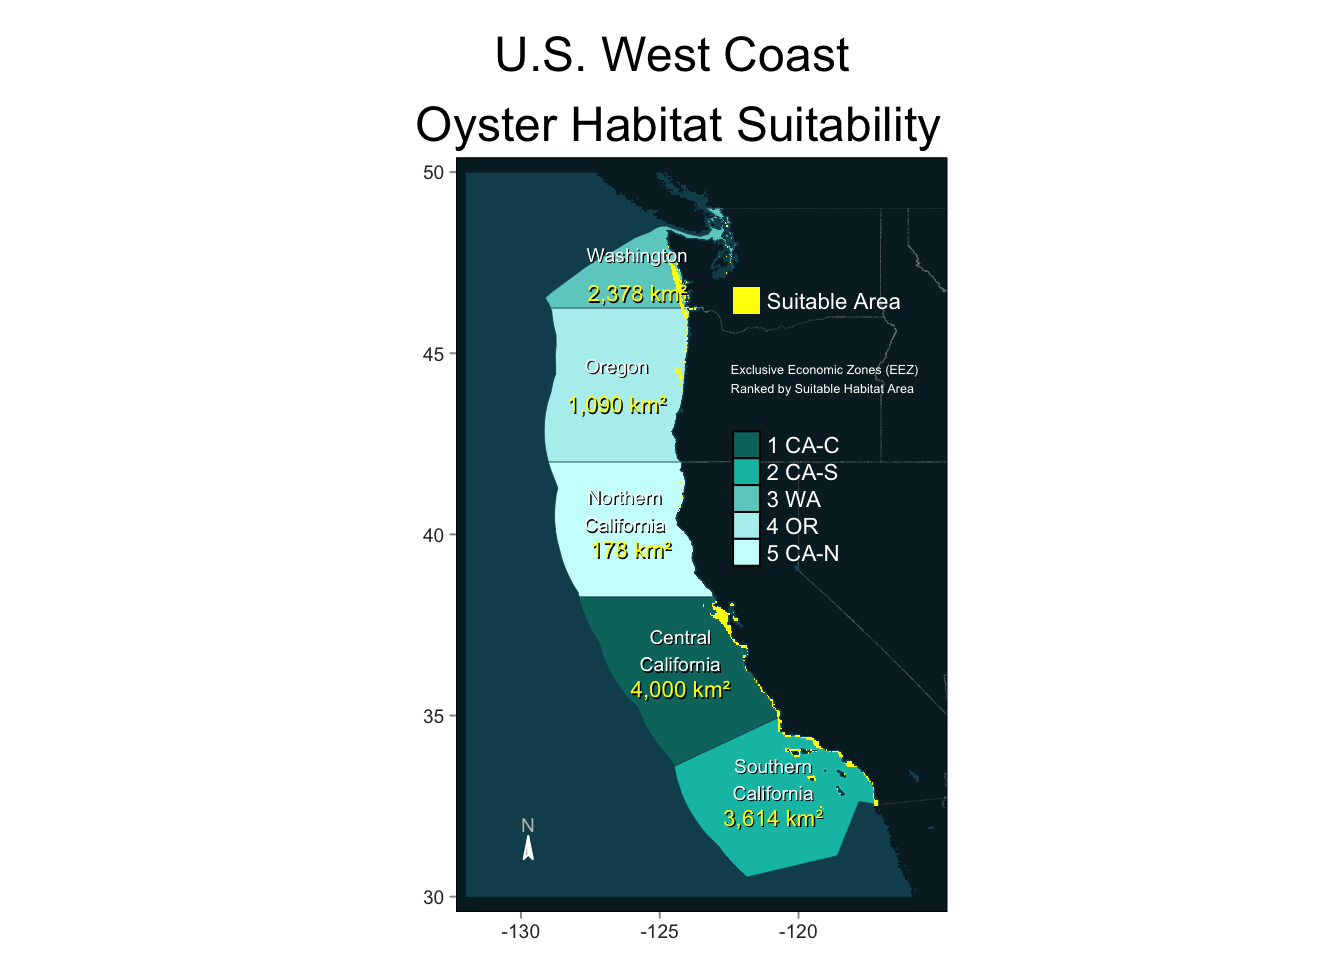
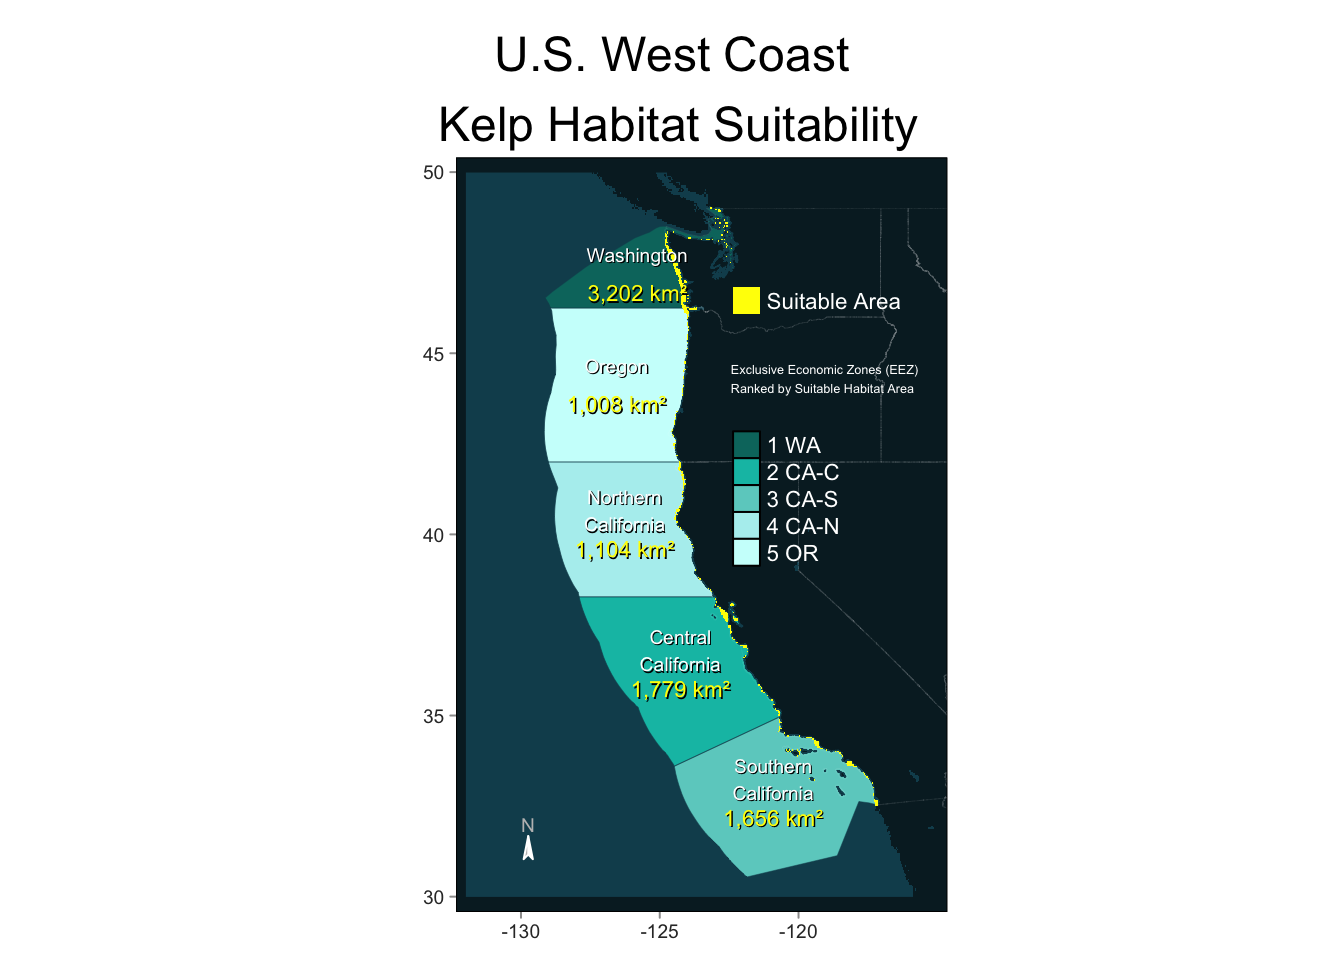
add cover photo

Changed region(s): [[0.4062, 0.2188, 0.6562, 0.9062], [0.3125, 0.0938, 0.7188, 0.1562], [0.5625, 0.4375, 0.625, 0.5938]]

diff --git a/aquaculture-habitat-suitability.html b/aquaculture-habitat-suitability.html
@@ -81,7 +81,12 @@ pre > code.sourceCode > span > a:first-child::before { text-decoration: underlin
     <h2 id="toc-title">Table of contents</h2>
    
   <ul>
-  <li><a href="#generalize-workflow-for-habitat-suitability" id="toc-generalize-workflow-for-habitat-suitability" class="nav-link active" data-scroll-target="#generalize-workflow-for-habitat-suitability">4. Generalize Workflow for Habitat Suitability</a></li>
+  <li><a href="#set-up-workspace" id="toc-set-up-workspace" class="nav-link active" data-scroll-target="#set-up-workspace">1. Set up Workspace</a></li>
+  <li><a href="#prepare-data" id="toc-prepare-data" class="nav-link" data-scroll-target="#prepare-data">2. Prepare Data</a></li>
+  <li><a href="#calculate-oyster-habitat-suitability-by-eez-zone" id="toc-calculate-oyster-habitat-suitability-by-eez-zone" class="nav-link" data-scroll-target="#calculate-oyster-habitat-suitability-by-eez-zone">3. Calculate Oyster Habitat Suitability by EEZ Zone</a></li>
+  <li><a href="#generalize-workflow-for-habitat-suitability" id="toc-generalize-workflow-for-habitat-suitability" class="nav-link" data-scroll-target="#generalize-workflow-for-habitat-suitability">4. Generalize Workflow for Habitat Suitability</a></li>
+  <li><a href="#use-function-with-test-species" id="toc-use-function-with-test-species" class="nav-link" data-scroll-target="#use-function-with-test-species">5. Use function with Test Species</a></li>
+  <li><a href="#resources" id="toc-resources" class="nav-link" data-scroll-target="#resources">6. Resources:</a></li>
   </ul>
 </nav>
 </div>
@@ -119,8 +124,8 @@ pre > code.sourceCode > span > a:first-child::before { text-decoration: underlin
 </header>
 
 
-<section id="set-up-workspace" class="level4">
-<h4 class="anchored" data-anchor-id="set-up-workspace">1. Set up Workspace</h4>
+<section id="set-up-workspace" class="level3">
+<h3 class="anchored" data-anchor-id="set-up-workspace">1. Set up Workspace</h3>
 <div class="cell">
 <details class="code-fold">
 <summary>Load Libraries</summary>
@@ -175,8 +180,8 @@ pre > code.sourceCode > span > a:first-child::before { text-decoration: underlin
 </details>
 </div>
 </section>
-<section id="prepare-data" class="level4">
-<h4 class="anchored" data-anchor-id="prepare-data">2. Prepare Data</h4>
+<section id="prepare-data" class="level3">
+<h3 class="anchored" data-anchor-id="prepare-data">2. Prepare Data</h3>
 <div class="cell">
 <details class="code-fold">
 <summary>Prepare SST Data</summary>
@@ -228,8 +233,8 @@ pre > code.sourceCode > span > a:first-child::before { text-decoration: underlin
 </details>
 </div>
 </section>
-<section id="calculate-oyster-habitat-suitability-by-eez-zone" class="level4">
-<h4 class="anchored" data-anchor-id="calculate-oyster-habitat-suitability-by-eez-zone">3. Calculate Oyster Habitat Suitability by EEZ Zone</h4>
+<section id="calculate-oyster-habitat-suitability-by-eez-zone" class="level3">
+<h3 class="anchored" data-anchor-id="calculate-oyster-habitat-suitability-by-eez-zone">3. Calculate Oyster Habitat Suitability by EEZ Zone</h3>
 <div class="cell">
 <details class="code-fold">
 <summary>Reclassify SST &amp; Depth Values for Suitable Habitat</summary>
@@ -328,6 +333,33 @@ pre > code.sourceCode > span > a:first-child::before { text-decoration: underlin
 <span id="cb9-2"><a href="#cb9-2" aria-hidden="true" tabindex="-1"></a><span class="fu">par</span>(<span class="at">mfrow =</span> <span class="fu">c</span>(<span class="dv">1</span>, <span class="dv">1</span>))</span></code><button title="Copy to Clipboard" class="code-copy-button"><i class="bi"></i></button></pre></div>
 </details>
 </div>
+<table class="caption-top table">
+<colgroup>
+<col style="width: 19%">
+<col style="width: 19%">
+<col style="width: 20%">
+<col style="width: 19%">
+<col style="width: 19%">
+</colgroup>
+<thead>
+<tr class="header">
+<th>Species</th>
+<th>Min Temp</th>
+<th>Max Depth</th>
+<th>Min Depth</th>
+<th>Max Depth</th>
+</tr>
+</thead>
+<tbody>
+<tr class="odd">
+<td>Oyster</td>
+<td>10</td>
+<td>20</td>
+<td>- 40</td>
+<td>0</td>
+</tr>
+</tbody>
+</table>
 <div class="cell">
 <details class="code-fold">
 <summary>Map Oyster Habitat Suitability by EEZ Zone</summary>
@@ -411,16 +443,24 @@ pre > code.sourceCode > span > a:first-child::before { text-decoration: underlin
 <span id="cb10-78"><a href="#cb10-78" aria-hidden="true" tabindex="-1"></a>              <span class="at">legend.position =</span> <span class="fu">c</span>(<span class="fl">0.55</span>,<span class="fl">0.45</span>),</span>
 <span id="cb10-79"><a href="#cb10-79" aria-hidden="true" tabindex="-1"></a>              <span class="at">legend.title.color =</span> <span class="st">"white"</span>,</span>
 <span id="cb10-80"><a href="#cb10-80" aria-hidden="true" tabindex="-1"></a>              <span class="at">legend.title.size =</span> <span class="fl">1.2</span>,</span>
-<span id="cb10-81"><a href="#cb10-81" aria-hidden="true" tabindex="-1"></a>              <span class="at">bg.color =</span> <span class="st">'#07222B'</span>)</span></code><button title="Copy to Clipboard" class="code-copy-button"><i class="bi"></i></button></pre></div>
+<span id="cb10-81"><a href="#cb10-81" aria-hidden="true" tabindex="-1"></a>              <span class="at">bg.color =</span> <span class="st">'#07222B'</span>)</span>
+<span id="cb10-82"><a href="#cb10-82" aria-hidden="true" tabindex="-1"></a></span>
+<span id="cb10-83"><a href="#cb10-83" aria-hidden="true" tabindex="-1"></a><span class="co"># Display Map</span></span>
+<span id="cb10-84"><a href="#cb10-84" aria-hidden="true" tabindex="-1"></a> oyster_test_map </span></code><button title="Copy to Clipboard" class="code-copy-button"><i class="bi"></i></button></pre></div>
 </details>
+<div class="cell-output-display">
+<div>
+<figure class="figure">
+<p><img src="aquaculture-habitat-suitability_files/figure-html/unnamed-chunk-9-1.png" class="img-fluid figure-img" width="672"></p>
+</figure>
 </div>
+</div>
+</div>
+<p><em>This map shows habitat suitability for oyster aquaculture along the U.S. West Coast. Suitable areas, highlighted in yellow, were calculated using thresholds for sea surface temperature and depth below sea level, based on their known range according to <a href="https://www.sealifebase.ca/search.php">sealifebase.ca</a>. The threshold values for oyster can be located above on Table A. The Exclusive Economic Zones (EEZ) regions are colored by the the amount of suitable area, where dark turquoise indicates the largest amount of area and light blue is the smallest. Central California ranked 1st on the list at 4,000 km² and Northern California ranked fifth, the lowest, at 178km².</em></p>
 </section>
 <section id="generalize-workflow-for-habitat-suitability" class="level3">
 <h3 class="anchored" data-anchor-id="generalize-workflow-for-habitat-suitability">4. Generalize Workflow for Habitat Suitability</h3>
-<section id="create-a-choose-your-own-species-function" class="level4">
-<h4 class="anchored" data-anchor-id="create-a-choose-your-own-species-function">Create a ‘Choose-your-own species’ function</h4>
-<p><strong>About the function:</strong></p>
-<p>Arguments:</p>
+<p><strong>Arguments:</strong></p>
 <ul>
 <li><p><code>species</code>: a string containing the species name</p></li>
 <li><p><code>min_temp</code>: minimum suitable sea surface temperature in Celsius</p></li>
@@ -428,7 +468,7 @@ pre > code.sourceCode > span > a:first-child::before { text-decoration: underlin
 <li><p><code>min_depth</code>: minimum depth below sea level (0 = sea level)</p></li>
 <li><p><code>max_depth</code>: maximum depth below sea level</p></li>
 </ul>
-<p>Outputs: Map of EEZ regions colored by amount of suitable area</p>
+<p><strong>Outputs:</strong> Map of EEZ regions colored by amount of suitable area</p>
 <div class="cell">
 <details class="code-fold">
 <summary>Create a Habitat Suitability Function</summary>
@@ -580,8 +620,8 @@ pre > code.sourceCode > span > a:first-child::before { text-decoration: underlin
 </details>
 </div>
 </section>
-<section id="use-function-with-test-species" class="level4">
-<h4 class="anchored" data-anchor-id="use-function-with-test-species">5. Use function with Test Species</h4>
+<section id="use-function-with-test-species" class="level3">
+<h3 class="anchored" data-anchor-id="use-function-with-test-species">5. Use function with Test Species</h3>
 <p>Table A.</p>
 <table class="caption-top table">
 <colgroup>
@@ -602,13 +642,6 @@ pre > code.sourceCode > span > a:first-child::before { text-decoration: underlin
 </thead>
 <tbody>
 <tr class="odd">
-<td>Oyster</td>
-<td>10</td>
-<td>20</td>
-<td>- 40</td>
-<td>0</td>
-</tr>
-<tr class="even">
 <td>Kelp</td>
 <td>11</td>
 <td>30</td>
@@ -620,8 +653,8 @@ pre > code.sourceCode > span > a:first-child::before { text-decoration: underlin
 <p>Source: <a href="https://www.sealifebase.ca/search.php">sealifebase.ca</a></p>
 <div class="cell">
 <details class="code-fold">
-<summary>Calculate Oyster Habitat Suitability</summary>
-<div class="sourceCode cell-code" id="cb12"><pre class="sourceCode r code-with-copy"><code class="sourceCode r"><span id="cb12-1"><a href="#cb12-1" aria-hidden="true" tabindex="-1"></a><span class="fu">habitat_suitability_map</span>(<span class="st">"Oyster"</span>, <span class="dv">11</span>,<span class="dv">30</span>,<span class="dv">0</span>, <span class="sc">-</span><span class="dv">70</span>)</span></code><button title="Copy to Clipboard" class="code-copy-button"><i class="bi"></i></button></pre></div>
+<summary>Calculate Kelp Habitat Suitability</summary>
+<div class="sourceCode cell-code" id="cb12"><pre class="sourceCode r code-with-copy"><code class="sourceCode r"><span id="cb12-1"><a href="#cb12-1" aria-hidden="true" tabindex="-1"></a><span class="fu">habitat_suitability_map</span>(<span class="st">"Kelp"</span>, <span class="dv">10</span>,<span class="dv">20</span>,<span class="dv">0</span>,<span class="sc">-</span><span class="dv">40</span>)</span></code><button title="Copy to Clipboard" class="code-copy-button"><i class="bi"></i></button></pre></div>
 </details>
 <div class="cell-output-display">
 <div>
@@ -631,11 +664,50 @@ pre > code.sourceCode > span > a:first-child::before { text-decoration: underlin
 </div>
 </div>
 </div>
-<p><em>This map shows habitat suitability for oyster aquaculture along the U.S. West Coast. Suitable areas, highlighted in yellow, were calculated using thresholds for sea surface temperature and depth below sea level, based on their known range according to <a href="https://www.sealifebase.ca/search.php">sealifebase.ca</a>. The threshold values for oyster can be located above on Table A. The Exclusive Economic Zones (EEZ) regions are colored by the the amount of suitable area, where dark turquoise indicates the largest amount of area and light blue is the smallest. Central California ranked 1st on the list at 4,000 km² and Northern California ranked fifth, the lowest, at 178km².</em></p>
+<p><em>This map shows habitat suitability for giant kelp aquaculture along the U.S. West Coast. Suitable areas, highlighted in yellow, were calculated using thresholds for sea surface temperature and depth below sea level, based on their known range according to <a href="https://www.sealifebase.ca/search.php">sealifebase.ca</a>. The threshold values for kelp can be located above on Table A. The Exclusive Economic Zones (EEZ) regions are colored by the the amount of suitable area, where dark turquoise indicates the largest amount of area and light blue is the smallest. Central California ranked 1st on the list at 4,000 km² and Northern California ranked fifth, the lowest, at 178km².</em></p>
 <div class="cell">
 <details class="code-fold">
-<summary>Calculate Kelp Habitat Suitability</summary>
-<div class="sourceCode cell-code" id="cb13"><pre class="sourceCode r code-with-copy"><code class="sourceCode r"><span id="cb13-1"><a href="#cb13-1" aria-hidden="true" tabindex="-1"></a><span class="fu">habitat_suitability_map</span>(<span class="st">"Kelp"</span>, <span class="dv">10</span>,<span class="dv">20</span>,<span class="dv">0</span>,<span class="sc">-</span><span class="dv">40</span>)</span></code><button title="Copy to Clipboard" class="code-copy-button"><i class="bi"></i></button></pre></div>
+<summary>Code</summary>
+<div class="sourceCode cell-code" id="cb13"><pre class="sourceCode r code-with-copy"><code class="sourceCode r"><span id="cb13-1"><a href="#cb13-1" aria-hidden="true" tabindex="-1"></a><span class="co"># ---- Prepare labels for map ----</span></span>
+<span id="cb13-2"><a href="#cb13-2" aria-hidden="true" tabindex="-1"></a></span>
+<span id="cb13-3"><a href="#cb13-3" aria-hidden="true" tabindex="-1"></a><span class="co"># ---- Create Suitability Map ----</span></span>
+<span id="cb13-4"><a href="#cb13-4" aria-hidden="true" tabindex="-1"></a></span>
+<span id="cb13-5"><a href="#cb13-5" aria-hidden="true" tabindex="-1"></a>  <span class="co"># Add unsuitable area for ocean background</span></span>
+<span id="cb13-6"><a href="#cb13-6" aria-hidden="true" tabindex="-1"></a>  oyster_test_map <span class="ot">&lt;-</span> <span class="fu">tm_shape</span>(species_unsuitable) <span class="sc">+</span> </span>
+<span id="cb13-7"><a href="#cb13-7" aria-hidden="true" tabindex="-1"></a>    <span class="fu">tm_raster</span>(<span class="at">palette =</span> <span class="st">"#124D5C"</span>,</span>
+<span id="cb13-8"><a href="#cb13-8" aria-hidden="true" tabindex="-1"></a>              <span class="at">legend.show =</span> <span class="cn">FALSE</span>) <span class="sc">+</span></span>
+<span id="cb13-9"><a href="#cb13-9" aria-hidden="true" tabindex="-1"></a> </span>
+<span id="cb13-10"><a href="#cb13-10" aria-hidden="true" tabindex="-1"></a>  <span class="co"># Add border color around EEZ zones boundaries </span></span>
+<span id="cb13-11"><a href="#cb13-11" aria-hidden="true" tabindex="-1"></a>  <span class="fu">tm_shape</span>(eez_suitability_area) <span class="sc">+</span></span>
+<span id="cb13-12"><a href="#cb13-12" aria-hidden="true" tabindex="-1"></a>    <span class="fu">tm_borders</span>(<span class="at">col =</span> <span class="st">"#124D5C"</span>,</span>
+<span id="cb13-13"><a href="#cb13-13" aria-hidden="true" tabindex="-1"></a>               <span class="at">lwd =</span> .<span class="dv">25</span>) <span class="sc">+</span></span>
+<span id="cb13-14"><a href="#cb13-14" aria-hidden="true" tabindex="-1"></a>    </span>
+<span id="cb13-15"><a href="#cb13-15" aria-hidden="true" tabindex="-1"></a>  <span class="co"># Add state borders for background</span></span>
+<span id="cb13-16"><a href="#cb13-16" aria-hidden="true" tabindex="-1"></a>  <span class="fu">tm_shape</span>(west_coast_states) <span class="sc">+</span></span>
+<span id="cb13-17"><a href="#cb13-17" aria-hidden="true" tabindex="-1"></a>  <span class="fu">tm_borders</span>(<span class="at">col =</span> <span class="st">"white"</span>,</span>
+<span id="cb13-18"><a href="#cb13-18" aria-hidden="true" tabindex="-1"></a>             <span class="at">alpha =</span> <span class="fl">0.1</span>,</span>
+<span id="cb13-19"><a href="#cb13-19" aria-hidden="true" tabindex="-1"></a>             <span class="at">lwd =</span> .<span class="dv">25</span>) <span class="sc">+</span></span>
+<span id="cb13-20"><a href="#cb13-20" aria-hidden="true" tabindex="-1"></a>    </span>
+<span id="cb13-21"><a href="#cb13-21" aria-hidden="true" tabindex="-1"></a>  <span class="fu">tm_shape</span>(species_suitability) <span class="sc">+</span></span>
+<span id="cb13-22"><a href="#cb13-22" aria-hidden="true" tabindex="-1"></a>  <span class="fu">tm_raster</span>(<span class="at">palette =</span> <span class="st">"yellow"</span>,</span>
+<span id="cb13-23"><a href="#cb13-23" aria-hidden="true" tabindex="-1"></a>              <span class="at">labels =</span> <span class="st">"Suitable Area"</span>,</span>
+<span id="cb13-24"><a href="#cb13-24" aria-hidden="true" tabindex="-1"></a>              <span class="at">title =</span> <span class="st">''</span>) <span class="sc">+</span> </span>
+<span id="cb13-25"><a href="#cb13-25" aria-hidden="true" tabindex="-1"></a>  </span>
+<span id="cb13-26"><a href="#cb13-26" aria-hidden="true" tabindex="-1"></a>  <span class="co"># Add tick marks </span></span>
+<span id="cb13-27"><a href="#cb13-27" aria-hidden="true" tabindex="-1"></a>  <span class="fu">tm_grid</span>(<span class="at">lines =</span> <span class="cn">FALSE</span>, <span class="at">tick =</span> <span class="cn">TRUE</span>, <span class="at">alpha =</span> <span class="fl">0.8</span>, <span class="at">n.x =</span> <span class="dv">5</span>, <span class="at">n.y =</span> <span class="dv">5</span>) <span class="sc">+</span></span>
+<span id="cb13-28"><a href="#cb13-28" aria-hidden="true" tabindex="-1"></a></span>
+<span id="cb13-29"><a href="#cb13-29" aria-hidden="true" tabindex="-1"></a>    </span>
+<span id="cb13-30"><a href="#cb13-30" aria-hidden="true" tabindex="-1"></a>  <span class="co"># Format layout </span></span>
+<span id="cb13-31"><a href="#cb13-31" aria-hidden="true" tabindex="-1"></a>  <span class="fu">tm_layout</span>(<span class="at">main.title =</span> <span class="fu">paste</span>(<span class="st">"U.S. West Coast</span><span class="sc">\n</span><span class="st"> Oyster Habitat Suitability"</span>),</span>
+<span id="cb13-32"><a href="#cb13-32" aria-hidden="true" tabindex="-1"></a>              <span class="at">main.title.position =</span> <span class="fu">c</span>(<span class="st">"center"</span>, <span class="st">"top"</span>),</span>
+<span id="cb13-33"><a href="#cb13-33" aria-hidden="true" tabindex="-1"></a>              <span class="at">legend.text.color =</span> <span class="st">"white"</span>,</span>
+<span id="cb13-34"><a href="#cb13-34" aria-hidden="true" tabindex="-1"></a>              <span class="at">legend.position =</span> <span class="fu">c</span>(<span class="fl">0.55</span>,<span class="fl">0.6</span>),</span>
+<span id="cb13-35"><a href="#cb13-35" aria-hidden="true" tabindex="-1"></a>              <span class="at">legend.title.color =</span> <span class="st">"white"</span>,</span>
+<span id="cb13-36"><a href="#cb13-36" aria-hidden="true" tabindex="-1"></a>              <span class="at">legend.title.size =</span> <span class="fl">1.2</span>,</span>
+<span id="cb13-37"><a href="#cb13-37" aria-hidden="true" tabindex="-1"></a>              <span class="at">bg.color =</span> <span class="st">'#07222B'</span>)</span>
+<span id="cb13-38"><a href="#cb13-38" aria-hidden="true" tabindex="-1"></a></span>
+<span id="cb13-39"><a href="#cb13-39" aria-hidden="true" tabindex="-1"></a><span class="co"># Display Map</span></span>
+<span id="cb13-40"><a href="#cb13-40" aria-hidden="true" tabindex="-1"></a> oyster_test_map </span></code><button title="Copy to Clipboard" class="code-copy-button"><i class="bi"></i></button></pre></div>
 </details>
 <div class="cell-output-display">
 <div>
@@ -645,15 +717,13 @@ pre > code.sourceCode > span > a:first-child::before { text-decoration: underlin
 </div>
 </div>
 </div>
-<p><em>This map shows habitat suitability for giant kelp aquaculture along the U.S. West Coast. Suitable areas, highlighted in yellow, were calculated using thresholds for sea surface temperature and depth below sea level, based on their known range according to <a href="https://www.sealifebase.ca/search.php">sealifebase.ca</a>. The threshold values for kelp can be located above on Table A. The Exclusive Economic Zones (EEZ) regions are colored by the the amount of suitable area, where dark turquoise indicates the largest amount of area and light blue is the smallest. Central California ranked 1st on the list at 4,000 km² and Northern California ranked fifth, the lowest, at 178km².</em></p>
 </section>
-<section id="resources" class="level4">
-<h4 class="anchored" data-anchor-id="resources">6. Resources:</h4>
-<p><strong>Habitat Suitability Ranges:</strong> <a href="https://www.sealifebase.ca/search.php">sealifebase.ca</a> Access date: 11/20/24</p>
-<p><strong>Exclusive Economic Zones (EEZ) Boundaries:</strong> <a href="https://www.marineregions.org/eez.php">Marine Regions</a> Access date: 11/20/24</p>
-<p><strong>Sea Surface Temperature</strong> <a href="https://coralreefwatch.noaa.gov/product/5km/index_5km_ssta.php">NOAA’s 5km Daily Global Satellite Sea Surface Temperature Anomaly v3.1</a> Access date: 11/20/24</p>
-<p><strong>Bathymetry:</strong> <a href="https://www.gebco.net/data_and_products/gridded_bathymetry_data/#area">General Bathymetric Chart of the Oceans (GEBCO)</a> Access date: 11/20/24</p>
-</section>
+<section id="resources" class="level3">
+<h3 class="anchored" data-anchor-id="resources">6. Resources:</h3>
+<p>Habitat Suitability Ranges: <a href="https://www.sealifebase.ca/search.php">sealifebase.ca</a> <em>Access date: 11/20/24</em></p>
+<p>Exclusive Economic Zones (EEZ) Boundaries: <a href="https://www.marineregions.org/eez.php">Marine Regions</a> <em>Access date: 11/20/24</em></p>
+<p>Sea Surface Temperature: <a href="https://coralreefwatch.noaa.gov/product/5km/index_5km_ssta.php">NOAA’s 5km Daily Global Satellite Sea Surface Temperature Anomaly v3.1</a> <em>Access date: 11/20/24</em></p>
+<p>Bathymetry: <a href="https://www.gebco.net/data_and_products/gridded_bathymetry_data/#area">General Bathymetric Chart of the Oceans (GEBCO)</a> <em>Access date: 11/20/24</em></p>
 </section>
 
 </main>
